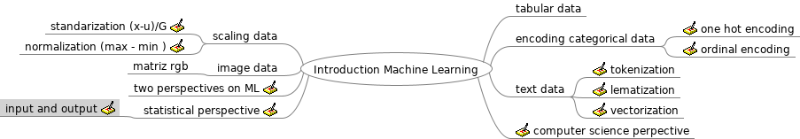
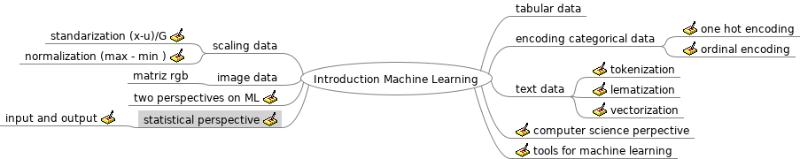
18 and 19

diff --git a/teory/Introduction Machine Learning.mm b/teory/Introduction Machine Learning.mm
@@ -764,5 +764,129 @@
 </richcontent>
 </node>
 </node>
+<node CREATED="1595389127491" ID="ID_1830131319" MODIFIED="1595389405534" POSITION="right" TEXT="tools for machine learning">
+<richcontent TYPE="NOTE"><html>
+  <head>
+    
+  </head>
+  <body>
+    <p>
+      collect data -&gt;prepare data-&gt; train model -&gt; evaluate model -&gt;deploy model
+    </p>
+    <p>
+      
+    </p>
+    <div http-equiv="content-type" content="text/html; charset=utf-8" class="index--pair--2zqTz" style="line-height: 1.33333em; margin-top: 0px; margin-right: 0px; margin-bottom: 0px; margin-left: 0px; padding-top: 0px; padding-right: 0px; padding-bottom: 0px; padding-left: 0px; display: flex; background-color: rgb(250, 251, 252); color: rgb(79, 79, 79); font-family: Open Sans, Helvetica, sans-serif; font-size: 15px; font-style: normal; font-weight: 400; letter-spacing: normal; text-align: left; text-indent: 0px; text-transform: none; white-space: normal; word-spacing: 0px">
+      <div class="index--concept--AV9z3 index--pair-part--1zw9K" style="line-height: 1.33333em; margin-top: 0px; margin-right: 0px; margin-bottom: 0px; margin-left: 0px; padding-top: 15px; padding-bottom: 15px; padding-right: 20px; padding-left: 20px; width: 384px; display: flex; border-right-color: rgb(219, 226, 232); border-right-style: solid; border-right-width: 1px">
+        <div class="index-module--markdown--2MdcR ureact-markdown " style="line-height: 1.7; margin-top: 0px; margin-right: 0px; margin-bottom: 0px; margin-left: 0px; padding-top: 0px; padding-right: 0px; padding-bottom: 0px; padding-left: 0px; font-size: 1rem">
+          <p style="margin-top: 0px; margin-right: 0px; margin-bottom: 0px; margin-left: 0px; font-size: 1rem; line-height: 1.7; padding-top: 0px; padding-right: 0px; padding-bottom: 0px; padding-left: 0px">
+            Microsoft's core development environme&#160;&#160;-&gt; visual studio
+          </p>
+          <p style="margin-top: 0px; margin-right: 0px; margin-bottom: 0px; margin-left: 0px; font-size: 1rem; line-height: 1.7; padding-top: 0px; padding-right: 0px; padding-bottom: 0px; padding-left: 0px">
+            open-source tool that can combine code, markdown, and visualizations together in a single document.
+          </p>
+        </div>
+      </div>
+      <div class="index--answer-selection--bwGz3 index--pair-part--1zw9K" style="line-height: 1.33333em; margin-top: 0px; margin-right: 0px; margin-bottom: 0px; margin-left: 0px; padding-top: 0px; padding-right: 0px; padding-bottom: 0px; padding-left: 0px; width: 384px; display: flex">
+        <div aria-label="Open-source tool that can combine code, markdown, and visualizations together in a single document. - currently Jupyter Notebooks" aria-dropeffect="move" role="listbox" tabindex="0" class="drop-zone--drop-zone--38cMu" style="line-height: 1.33333em; margin-top: 0px; margin-right: 0px; margin-bottom: 0px; margin-left: 0px; padding-top: 15px; padding-bottom: 15px; padding-right: 20px; padding-left: 20px; height: 111px; width: 380px">
+          <div aria-label="Answer 1, Jupyter Notebooks." role="button" draggable="true" class="drag-item--drag-item--3sB2T" tabindex="0" style="line-height: 1.33333em; margin-top: 0px; margin-right: 0px; margin-bottom: 0px; margin-left: 0px; padding-top: 10px; padding-bottom: 10px; padding-right: 15px; padding-left: 15px; background-color: rgb(2, 179, 228); border-top-style: none; border-top-width: medium; border-right-style: none; border-right-width: medium; border-bottom-style: none; border-bottom-width: medium; border-left-style: none; border-left-width: medium; color: rgb(255, 255, 255); display: inline-block">
+            <div class="index-module--markdown--2MdcR ureact-markdown " style="line-height: 1.7; margin-top: 0px; margin-right: 0px; margin-bottom: 0px; margin-left: 0px; padding-top: 0px; padding-right: 0px; padding-bottom: 0px; padding-left: 0px; font-size: 1rem">
+              <p style="margin-top: 0px; margin-right: 0px; margin-bottom: 0px; margin-left: 0px; font-size: 1rem; line-height: 1.7; padding-top: 0px; padding-right: 0px; padding-bottom: 0px; padding-left: 0px">
+                Jupyter Notebooks
+              </p>
+            </div>
+          </div>
+        </div>
+      </div>
+    </div>
+    <div class="index--pair--2zqTz" style="line-height: 1.33333em; margin-top: 0px; margin-right: 0px; margin-bottom: 0px; margin-left: 0px; padding-top: 0px; padding-right: 0px; padding-bottom: 0px; padding-left: 0px; display: flex; background-color: rgb(250, 251, 252); color: rgb(79, 79, 79); font-family: Open Sans, Helvetica, sans-serif; font-size: 15px; font-style: normal; font-weight: 400; letter-spacing: normal; text-align: left; text-indent: 0px; text-transform: none; white-space: normal; word-spacing: 0px">
+      <div class="index--concept--AV9z3 index--pair-part--1zw9K" style="line-height: 1.33333em; margin-top: 0px; margin-right: 0px; margin-bottom: 0px; margin-left: 0px; padding-top: 15px; padding-bottom: 15px; padding-right: 20px; padding-left: 20px; width: 384px; display: flex; border-right-color: rgb(219, 226, 232); border-right-style: solid; border-right-width: 1px">
+        <div class="index-module--markdown--2MdcR ureact-markdown " style="line-height: 1.7; margin-top: 0px; margin-right: 0px; margin-bottom: 0px; margin-left: 0px; padding-top: 0px; padding-right: 0px; padding-bottom: 0px; padding-left: 0px; font-size: 1rem">
+          <p style="margin-top: 0px; margin-right: 0px; margin-bottom: 0px; margin-left: 0px; font-size: 1rem; line-height: 1.7; padding-top: 0px; padding-right: 0px; padding-bottom: 0px; padding-left: 0px">
+            A light-weight code editor from Microsoft
+          </p>
+        </div>
+      </div>
+      <div class="index--answer-selection--bwGz3 index--pair-part--1zw9K" style="line-height: 1.33333em; margin-top: 0px; margin-right: 0px; margin-bottom: 0px; margin-left: 0px; padding-top: 0px; padding-right: 0px; padding-bottom: 0px; padding-left: 0px; width: 384px; display: flex">
+        <div aria-label="A light-weight code editor from Microsoft - currently Visual Studio Code" aria-dropeffect="move" role="listbox" tabindex="0" class="drop-zone--drop-zone--38cMu" style="line-height: 1.33333em; margin-top: 0px; margin-right: 0px; margin-bottom: 0px; margin-left: 0px; padding-top: 15px; padding-bottom: 15px; padding-right: 20px; padding-left: 20px; height: 85px; width: 380px">
+          <div aria-label="Answer 1, Visual Studio Code." role="button" draggable="true" class="drag-item--drag-item--3sB2T" tabindex="0" style="line-height: 1.33333em; margin-top: 0px; margin-right: 0px; margin-bottom: 0px; margin-left: 0px; padding-top: 10px; padding-bottom: 10px; padding-right: 15px; padding-left: 15px; background-color: rgb(2, 179, 228); border-top-style: none; border-top-width: medium; border-right-style: none; border-right-width: medium; border-bottom-style: none; border-bottom-width: medium; border-left-style: none; border-left-width: medium; color: rgb(255, 255, 255); display: inline-block">
+            <div class="index-module--markdown--2MdcR ureact-markdown " style="line-height: 1.7; margin-top: 0px; margin-right: 0px; margin-bottom: 0px; margin-left: 0px; padding-top: 0px; padding-right: 0px; padding-bottom: 0px; padding-left: 0px; font-size: 1rem">
+              <p style="margin-top: 0px; margin-right: 0px; margin-bottom: 0px; margin-left: 0px; font-size: 1rem; line-height: 1.7; padding-top: 0px; padding-right: 0px; padding-bottom: 0px; padding-left: 0px">
+                Visual Studio Code
+              </p>
+            </div>
+          </div>
+        </div>
+      </div>
+    </div>
+    <div class="index--pair--2zqTz" style="line-height: 1.33333em; margin-top: 0px; margin-right: 0px; margin-bottom: 0px; margin-left: 0px; padding-top: 0px; padding-right: 0px; padding-bottom: 0px; padding-left: 0px; display: flex; color: rgb(79, 79, 79); font-family: Open Sans, Helvetica, sans-serif; font-size: 15px; font-style: normal; font-weight: 400; letter-spacing: normal; text-align: left; text-indent: 0px; text-transform: none; white-space: normal; word-spacing: 0px; background-color: rgb(255, 255, 255)">
+      <div class="index--concept--AV9z3 index--pair-part--1zw9K" style="line-height: 1.33333em; margin-top: 0px; margin-right: 0px; margin-bottom: 0px; margin-left: 0px; padding-top: 15px; padding-bottom: 15px; padding-right: 20px; padding-left: 20px; width: 384px; display: flex; border-right-color: rgb(219, 226, 232); border-right-style: solid; border-right-width: 1px">
+        <div class="index-module--markdown--2MdcR ureact-markdown " style="line-height: 1.7; margin-top: 0px; margin-right: 0px; margin-bottom: 0px; margin-left: 0px; padding-top: 0px; padding-right: 0px; padding-bottom: 0px; padding-left: 0px; font-size: 1rem">
+          <p style="margin-top: 0px; margin-right: 0px; margin-bottom: 0px; margin-left: 0px; font-size: 1rem; line-height: 1.7; padding-top: 0px; padding-right: 0px; padding-bottom: 0px; padding-left: 0px">
+            Data analytics platform, optimized for use with Microsoft cloud services
+          </p>
+        </div>
+      </div>
+    </div>
+    <p>
+      
+    </p>
+    <div http-equiv="content-type" content="text/html; charset=utf-8" style="line-height: 1.33333em; margin-top: 0px; margin-right: 0px; margin-bottom: 0px; margin-left: 0px; padding-top: 0px; padding-right: 0px; padding-bottom: 0px; padding-left: 0px; color: rgb(79, 79, 79); font-family: Open Sans, Helvetica, sans-serif; font-size: 15px; font-style: normal; font-weight: 400; letter-spacing: normal; text-align: left; text-indent: 0px; text-transform: none; white-space: normal; word-spacing: 0px">
+      <div class="index--container--2OwOl" style="line-height: 1.33333em; margin-top: 25px; margin-bottom: 25px; margin-right: 0px; margin-left: 0px; padding-top: 0px; padding-right: 0px; padding-bottom: 0px; padding-left: 0px">
+        <div class="index--atom--lmAIo layout--content--3Smmq" style="line-height: 1.33333em; margin-top: 0px; margin-bottom: 0px; margin-right: 0; margin-left: 0; padding-top: 0px; padding-bottom: 0px; padding-right: 15px; padding-left: 15px">
+          <div class="ltr" style="line-height: 1.33333em; margin-top: 0px; margin-right: 0px; margin-bottom: 0px; margin-left: 0px; padding-top: 0px; padding-right: 0px; padding-bottom: 0px; padding-left: 0px">
+            <div class="index-module--markdown--2MdcR ureact-markdown " style="line-height: 1.7; margin-top: 0px; margin-right: 0px; margin-bottom: 0px; margin-left: 0px; padding-top: 0px; padding-right: 0px; padding-bottom: 0px; padding-left: 0px; font-size: 1rem">
+              <h2 id="the-machine-learning-ecosystem" style="margin-top: 36px; margin-right: 0px; margin-bottom: 5px; margin-left: 0px; line-height: 1.33333em; padding-top: 0px; padding-right: 0px; padding-bottom: 0px; padding-left: 0px; font-weight: 600; font-size: 20px; color: rgb(46, 61, 73)">
+                The Machine Learning Ecosystem
+              </h2>
+              <p style="margin-top: 0px; margin-right: 0px; margin-bottom: 15px; margin-left: 0px; font-size: 1rem; line-height: 1.7; padding-top: 0px; padding-right: 0px; padding-bottom: 0px; padding-left: 0px">
+                A typical machine learning ecosystem is made up of three main components:
+              </p>
+              <p style="margin-top: 0px; margin-right: 0px; margin-bottom: 15px; margin-left: 0px; font-size: 1rem; line-height: 1.7; padding-top: 0px; padding-right: 0px; padding-bottom: 0px; padding-left: 0px">
+                <strong style="font-weight: 700"><b>1. Libraries.</b></strong>&#160;When you're working on a machine learning project, you likely will not want to write all of the necessary code yourself&#8212;instead, you'll want to make use of code that has already been created and refined. That's where libraries come in. A&#160;<em style="font-style: italic"><i>library</i></em>&#160;is a collection of pre-written (and compiled) code that you can make use of in your own project.&#160;<em style="font-style: italic"><i>NumPy</i></em>&#160;is an example of a library popularly used in data science, while&#160;<em style="font-style: italic"><i>TensorFlow</i></em>&#160;is a library specifically designed for machine learning. Read this&#160;<a target="_blank" href="https://www.geeksforgeeks.org/best-python-libraries-for-machine-learning/" style="color: rgb(2, 179, 228); text-decoration: none; margin-bottom: 0px"><font color="rgb(2, 179, 228)">article</font></a>&#160;for some other useful library.
+              </p>
+              <p style="margin-top: 0px; margin-right: 0px; margin-bottom: 15px; margin-left: 0px; font-size: 1rem; line-height: 1.7; padding-top: 0px; padding-right: 0px; padding-bottom: 0px; padding-left: 0px">
+                <strong style="font-weight: 700"><b>2. Development environments.</b></strong>&#160;A&#160;<em style="font-style: italic"><i>development environment</i></em>&#160;is a software application (or sometimes a group of applications) that provide a whole suite of tools designed to help you (as the developer or machine learning engineer) build out your projects.&#160;<em style="font-style: italic"><i>Jupyter Notebooks</i></em>&#160;and&#160;<em style="font-style: italic; margin-bottom: 0px"><i>Visual Studio</i></em>&#160;are examples of development environments that are popular for coding many different types of projects, including machine learning projects.
+              </p>
+              <p style="margin-top: 0px; margin-right: 0px; margin-bottom: 15px; margin-left: 0px; font-size: 1rem; line-height: 1.7; padding-top: 0px; padding-right: 0px; padding-bottom: 0px; padding-left: 0px">
+                <strong style="font-weight: 700"><b>3. Cloud services.</b></strong>&#160;A&#160;<em style="font-style: italic"><i>cloud service</i></em>&#160;is a service that offers data storage or computing power over the Internet. In the context of machine learning, you can use a cloud service to access a server that is likely far more powerful than your own machine, or that comes equipped with machine learning models that are ready for you to use. Read more information about different cloud services from this&#160;<a target="_blank" href="https://medium.com/appanion/machine-learning-as-a-service-the-top-cloud-platform-and-ai-vendors-2df45d51374d" style="color: rgb(2, 179, 228); text-decoration: none; margin-bottom: 0px"><font color="rgb(2, 179, 228)">article</font></a>
+              </p>
+              <p style="margin-top: 0px; margin-right: 0px; margin-bottom: 0px; margin-left: 0px; font-size: 1rem; line-height: 1.7; padding-top: 0px; padding-right: 0px; padding-bottom: 0px; padding-left: 0px">
+                For each of these components, there are multiple options you can choose from. Let's have a look at some examples.
+              </p>
+            </div>
+          </div>
+        </div>
+      </div>
+    </div>
+    <div style="line-height: 1.33333em; margin-top: 0px; margin-right: 0px; margin-bottom: 0px; margin-left: 0px; padding-top: 0px; padding-right: 0px; padding-bottom: 0px; padding-left: 0px; color: rgb(79, 79, 79); font-family: Open Sans, Helvetica, sans-serif; font-size: 15px; font-style: normal; font-weight: 400; letter-spacing: normal; text-align: left; text-indent: 0px; text-transform: none; white-space: normal; word-spacing: 0px">
+      <div class="index--container--2OwOl" style="line-height: 1.33333em; margin-top: 25px; margin-bottom: 25px; margin-right: 0px; margin-left: 0px; padding-top: 0px; padding-right: 0px; padding-bottom: 0px; padding-left: 0px">
+        <div class="index--atom--lmAIo layout--content--3Smmq" style="line-height: 1.33333em; margin-top: 0px; margin-bottom: 0px; margin-right: 0; margin-left: 0; padding-top: 0px; padding-bottom: 0px; padding-right: 15px; padding-left: 15px">
+          <div class="ltr" style="line-height: 1.33333em; margin-top: 0px; margin-right: 0px; margin-bottom: 0px; margin-left: 0px; padding-top: 0px; padding-right: 0px; padding-bottom: 0px; padding-left: 0px">
+            <div class="index-module--markdown--2MdcR ureact-markdown " style="line-height: 1.7; margin-top: 0px; margin-right: 0px; margin-bottom: 0px; margin-left: 0px; padding-top: 0px; padding-right: 0px; padding-bottom: 0px; padding-left: 0px; font-size: 1rem">
+              <h2 id="notebooks" style="margin-top: 36px; margin-right: 0px; margin-bottom: 5px; margin-left: 0px; line-height: 1.33333em; padding-top: 0px; padding-right: 0px; padding-bottom: 0px; padding-left: 0px; font-weight: 600; font-size: 20px; color: rgb(46, 61, 73)">
+                Notebooks
+              </h2>
+              <p style="margin-top: 0px; margin-right: 0px; margin-bottom: 15px; margin-left: 0px; font-size: 1rem; line-height: 1.7; padding-top: 0px; padding-right: 0px; padding-bottom: 0px; padding-left: 0px">
+                Notebooks are originally created as a documenting tool that others can use to reproduce experiments. Notebooks typically contain a combination of runnable code, output, formatted text, and visualizations. One of the most popular open-source notebooks used today by data scientists and data science engineers is&#160;<a target="_blank" href="https://jupyter.org/" style="color: rgb(2, 179, 228); text-decoration: none; margin-bottom: 0px"><font color="rgb(2, 179, 228)"><strong style="font-weight: 700; margin-bottom: 0px"><b>Jupyter notebook</b></strong></font></a>, which can combine code, formatted text (markdown) and visualization.
+              </p>
+              <p style="margin-top: 0px; margin-right: 0px; margin-bottom: 15px; margin-left: 0px; font-size: 1rem; line-height: 1.7; padding-top: 0px; padding-right: 0px; padding-bottom: 0px; padding-left: 0px">
+                Notebooks contains several independent&#160;<strong style="font-weight: 700; margin-bottom: 0px"><b>cells</b></strong>&#160;that allow for the execution of code snippets within those cells. The output of each cell can be saved in the notebook and viewed by others.
+              </p>
+              <h2 id="end-to-end-with-azure" style="margin-top: 36px; margin-right: 0px; margin-bottom: 5px; margin-left: 0px; line-height: 1.33333em; padding-top: 0px; padding-right: 0px; padding-bottom: 0px; padding-left: 0px; font-weight: 600; font-size: 20px; color: rgb(46, 61, 73)">
+                End-to-end with Azure
+              </h2>
+              <p style="margin-top: 0px; margin-right: 0px; margin-bottom: 0px; margin-left: 0px; font-size: 1rem; line-height: 1.7; padding-top: 0px; padding-right: 0px; padding-bottom: 0px; padding-left: 0px">
+                You can analyze and train a small amount of data with your local machine using Jupyter notebook, Visual studio, or other tools. But with very large amounts of data, or you need a faster processor, it's a better idea to train and test the model&#160;<em style="font-style: italic"><i>remotely</i></em>&#160;using&#160;<em style="font-style: italic; margin-bottom: 0px"><i>cloud services</i></em>&#160;such as Microsoft Azure. You can use Azure Data Science Virtual Machine, Azure Databricks, Azure Machine Learning Compute, or SQL server ML services to train and test models and use Azure Kubernetes to deploy models.
+              </p>
+            </div>
+          </div>
+        </div>
+      </div>
+    </div>
+  </body>
+</html>
+</richcontent>
+</node>
 </node>
 </map>
